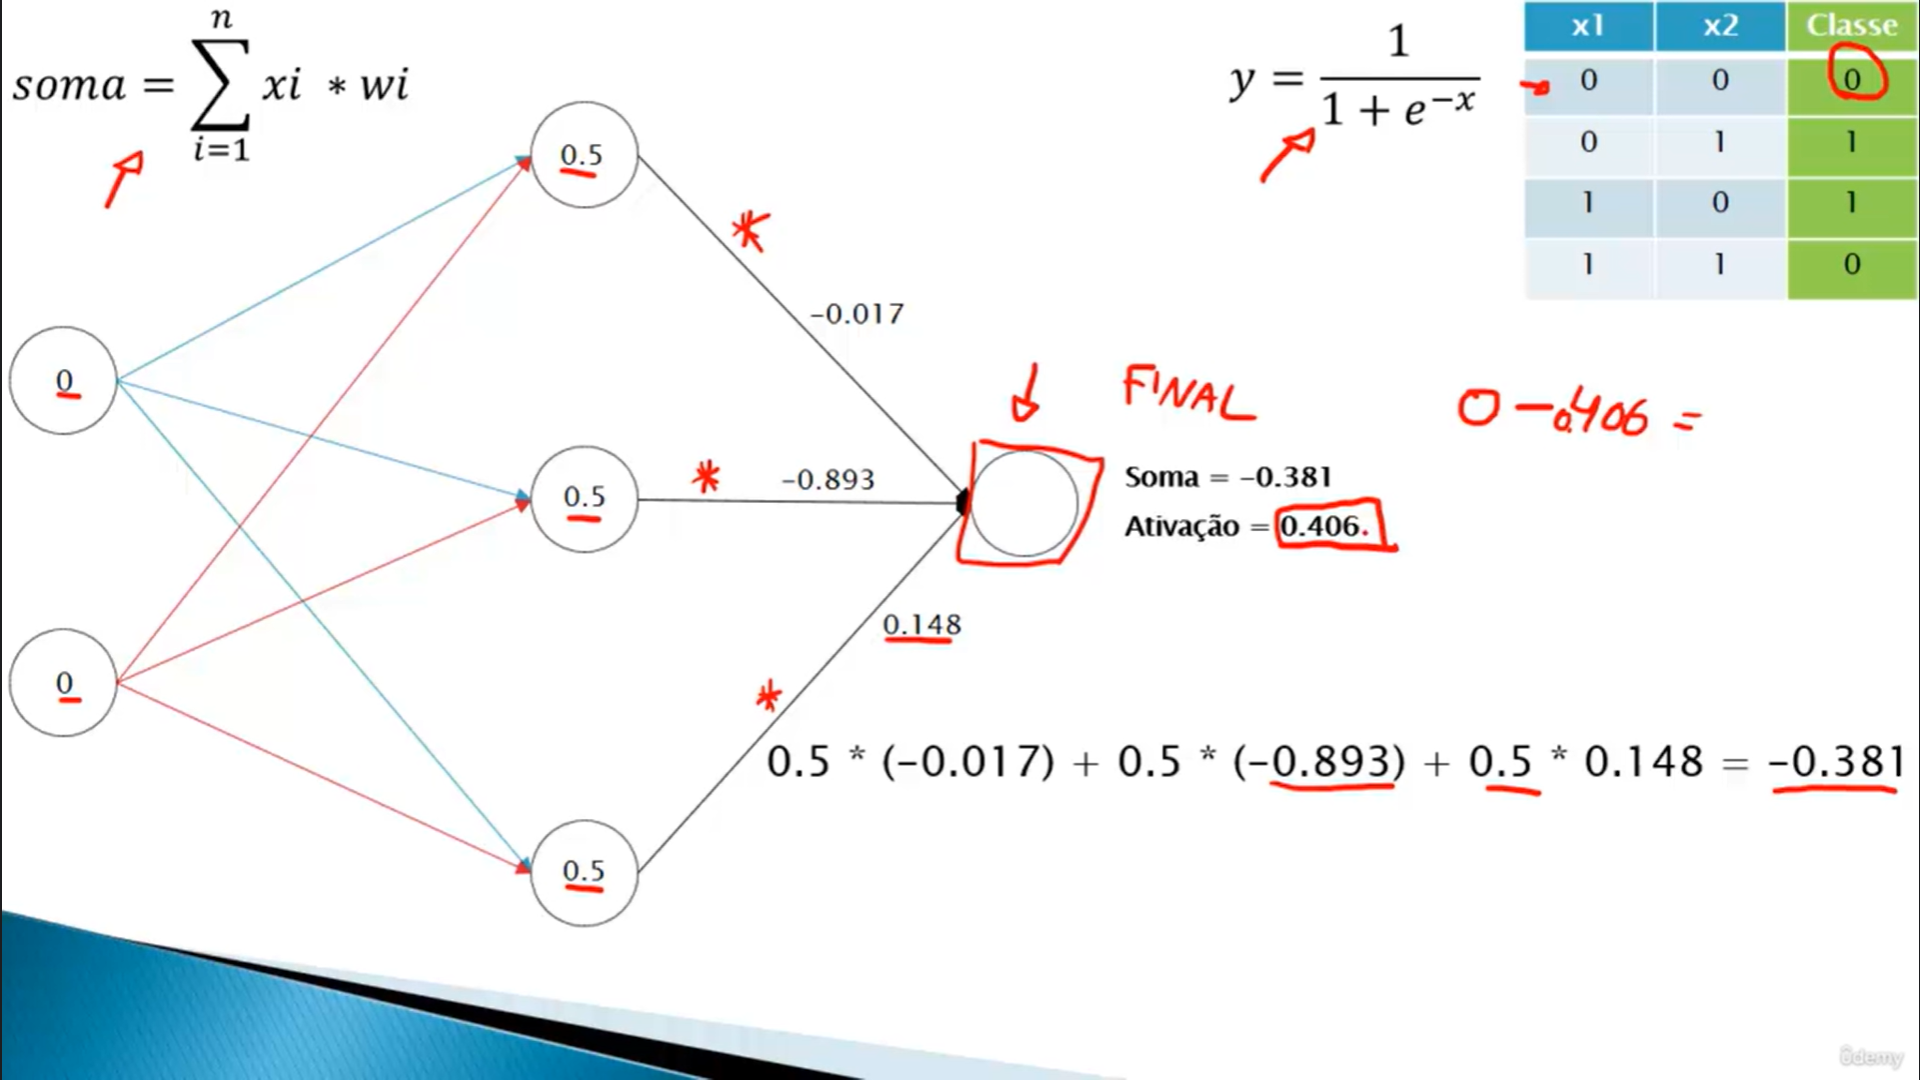
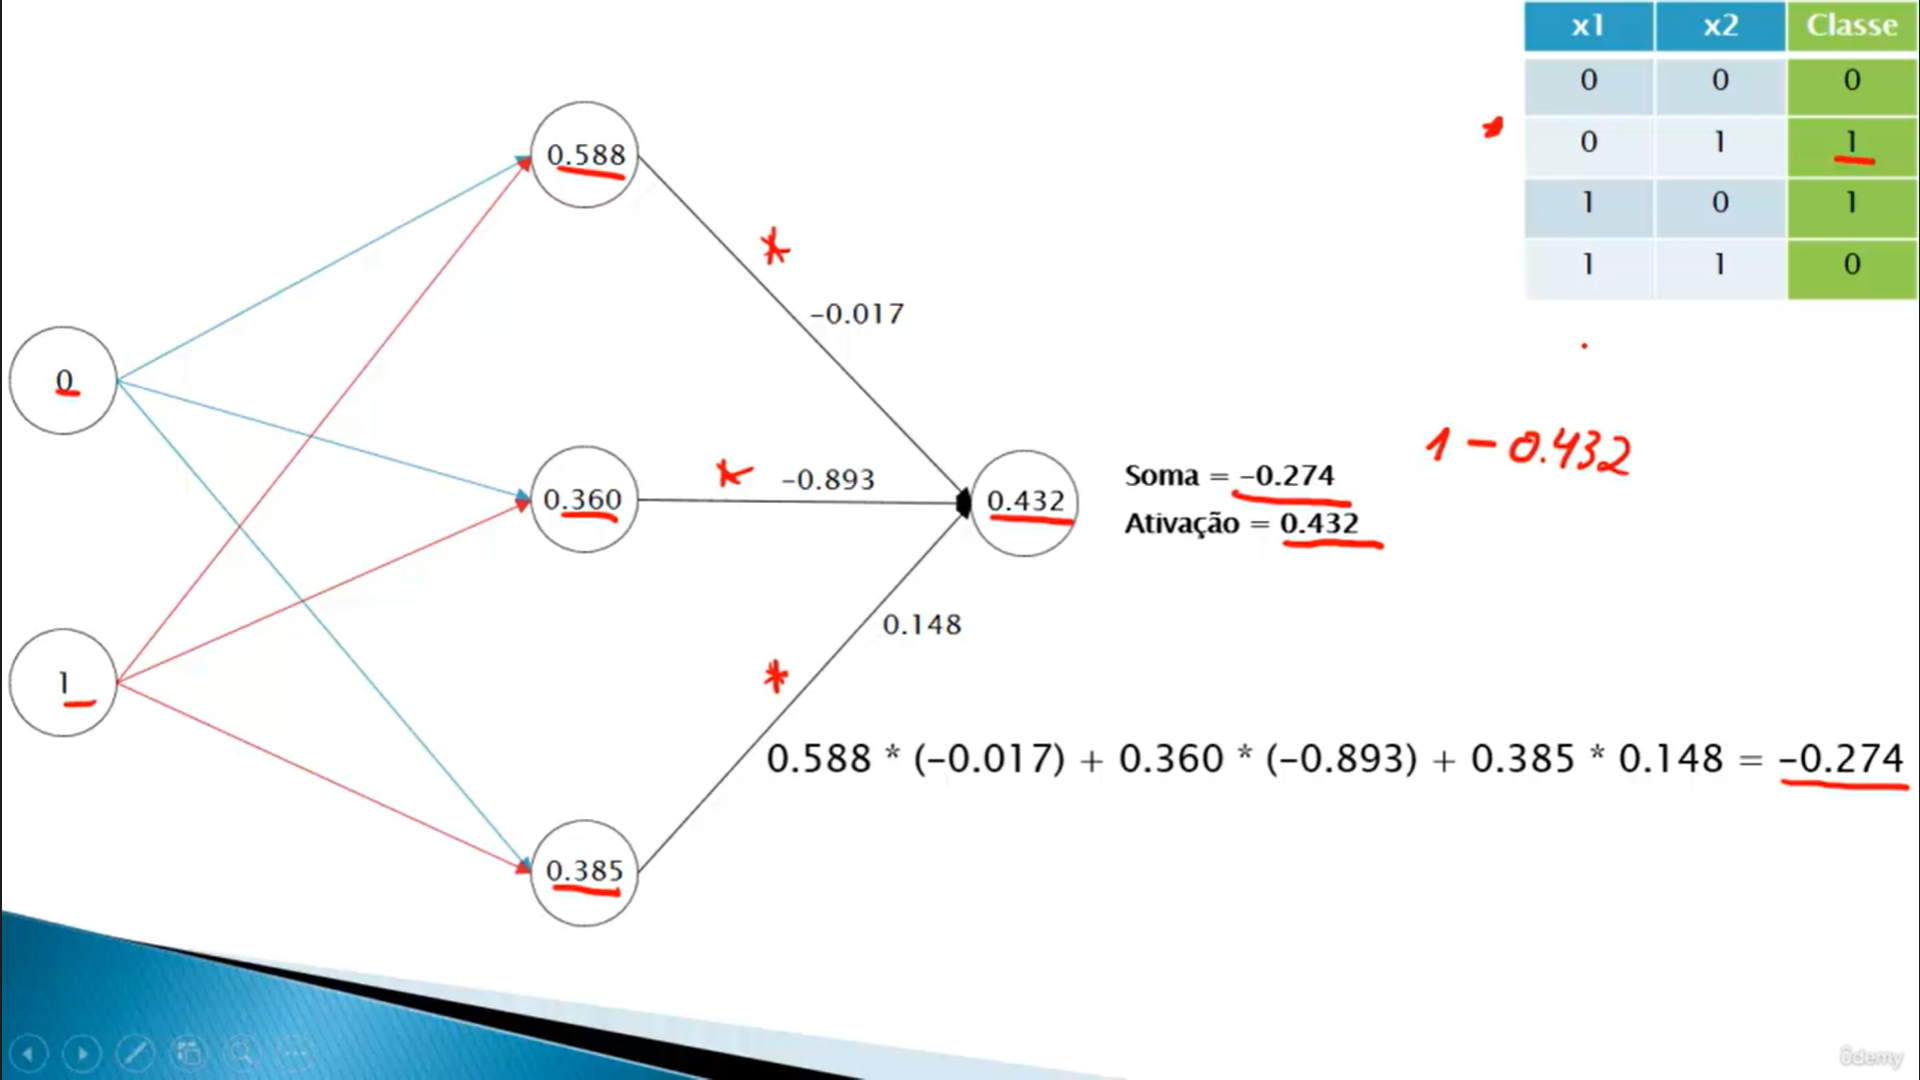
secao_3 aula_27

diff --git a/Section_3__Redes_neurais_multicamada/27__Implementacao_rede_multicamada_III/rede_multicamada_2.py b/Section_3__Redes_neurais_multicamada/27__Implementacao_rede_multicamada_III/rede_multicamada_2.py
@@ -6,6 +6,7 @@ import numpy as np
 
 entradas = [[0, 0], [0, 1], [1, 0], [1, 1]]
 pesos0 = [[-0.424, -0.740, -0.961], [0.358, -0.577, -0.469]]
+pesos1 = [[-0.017, -0.893, 0.148]]
 epocas = 100
 somaSinapse = 0
 
@@ -22,20 +23,27 @@ def soma_sinapse(entrada):
 for entrada in entradas:
 	indice_peso = 0
 	variavel = soma_sinapse(entrada)
+	somaSinapse1 = 0
 	while indice_peso < len(pesos0[0]):
-		soma = 0
+		somaSinapse0 = 0
 		indice_pesos = 0
 		indice_entrada = 0
 		while indice_pesos < len(pesos0):
-
-			funcao_sigmoide = variavel(pesos0[indice_pesos][indice_peso], indice_entrada)
-			soma += funcao_sigmoide
-			print(funcao_sigmoide)
+			camadaEntrada = variavel(pesos0[indice_pesos][indice_peso], 
+			indice_entrada)
+			somaSinapse0 += camadaEntrada
 			indice_entrada += 1	
 			indice_pesos += 1
 			if indice_pesos == len(pesos0):
 				indice_entrada = 0
-		indice_peso += 1	
-		print('soma', soma)
-		print(sigmoid(soma))
+		indice_peso += 1
+
+		camadaOculta = sigmoid(somaSinapse0) 
+		print('camadaOculta', camadaOculta)
+
+		somaSinapse1 += camadaOculta * pesos1[0][indice_peso - 1]
+		print('somaSinapse1', somaSinapse1)
+
+	camadaSaida = sigmoid(somaSinapse1)
+	print('camadaSaida', camadaSaida)
 	print()

diff --git a/Section_3__Redes_neurais_multicamada/27__Implementacao_rede_multicamada_III/rede_multicamada.py b/Section_3__Redes_neurais_multicamada/27__Implementacao_rede_multicamada_III/rede_multicamada.py
@@ -11,7 +11,7 @@ def sigmoid(soma):
 entradas = np.array([[0, 0], [0, 1], [1, 0], [1, 1]])
 saidas = np.array([[0], [1], [1], [0]])
 pesos0 = np.array([[-0.424, -0.740, -0.961], [0.358, -0.577, -0.469]])
-pesos1 = np.array([[-0.017, -0.893, -0.148]])
+pesos1 = np.array([[-0.017, -0.893, 0.148]])
 
 epocas = 100
 
@@ -20,6 +20,6 @@ for j in range(epocas):
 	somaSinapse0 = np.dot(camadaEntrada, pesos0)
 	camadaOculta = sigmoid(somaSinapse0)
 	
-	somaSinapse1 = np.dot(camadaOculta, pesos1)
+	somaSinapse1 = np.dot(camadaOculta, pesos1.T)
 	camadaSaida = sigmoid(somaSinapse1)
 	
